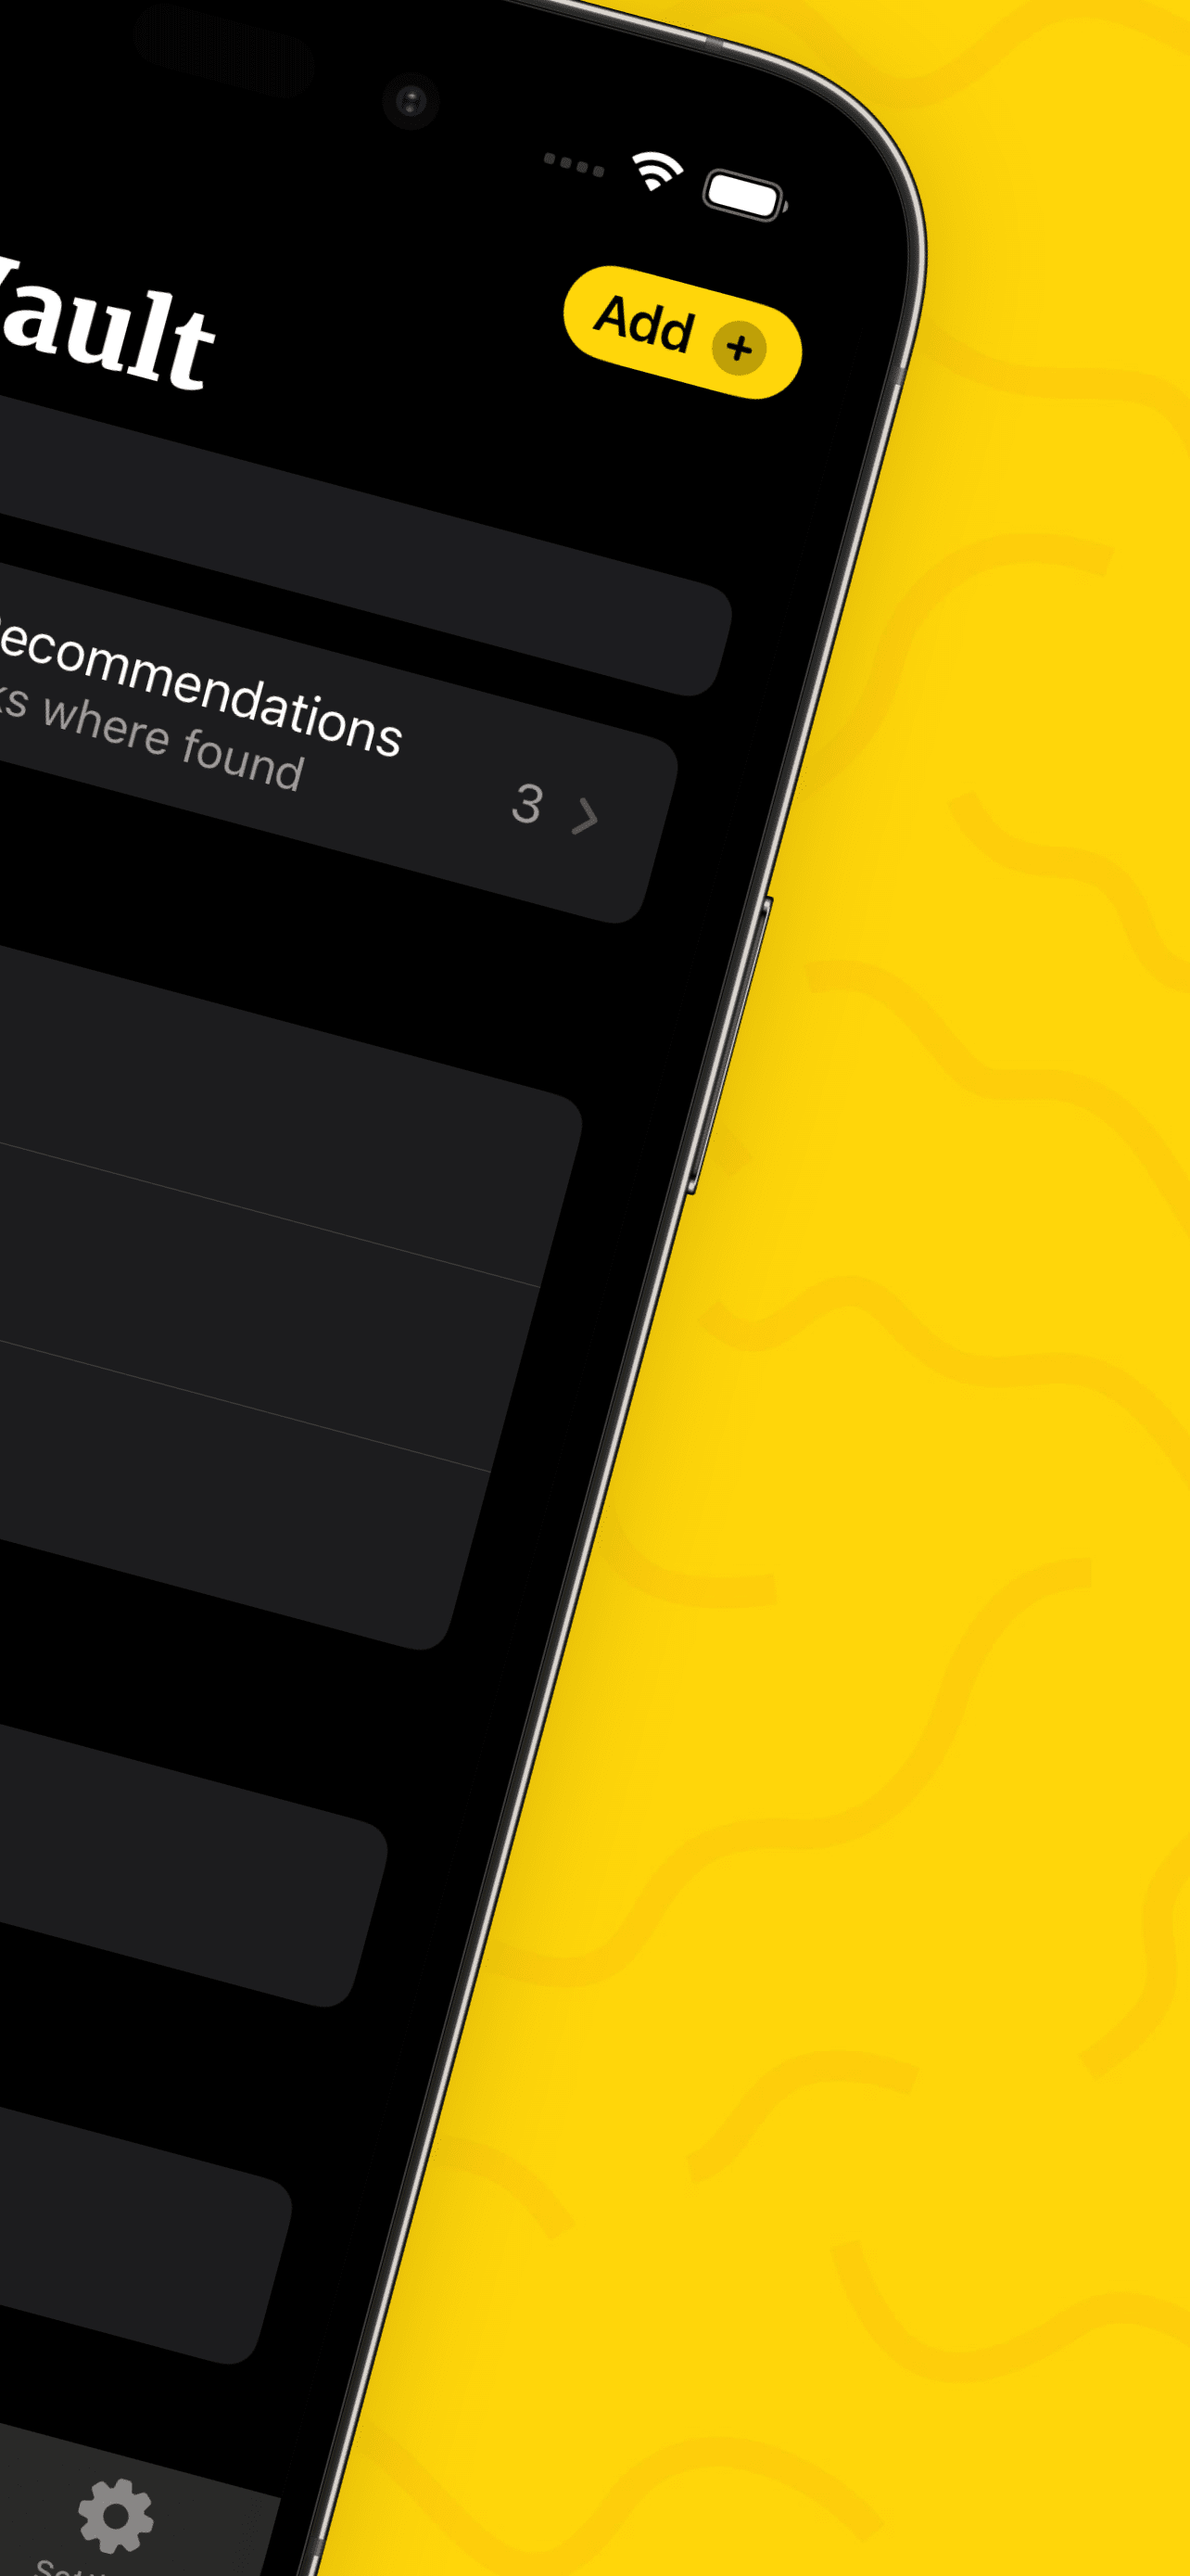
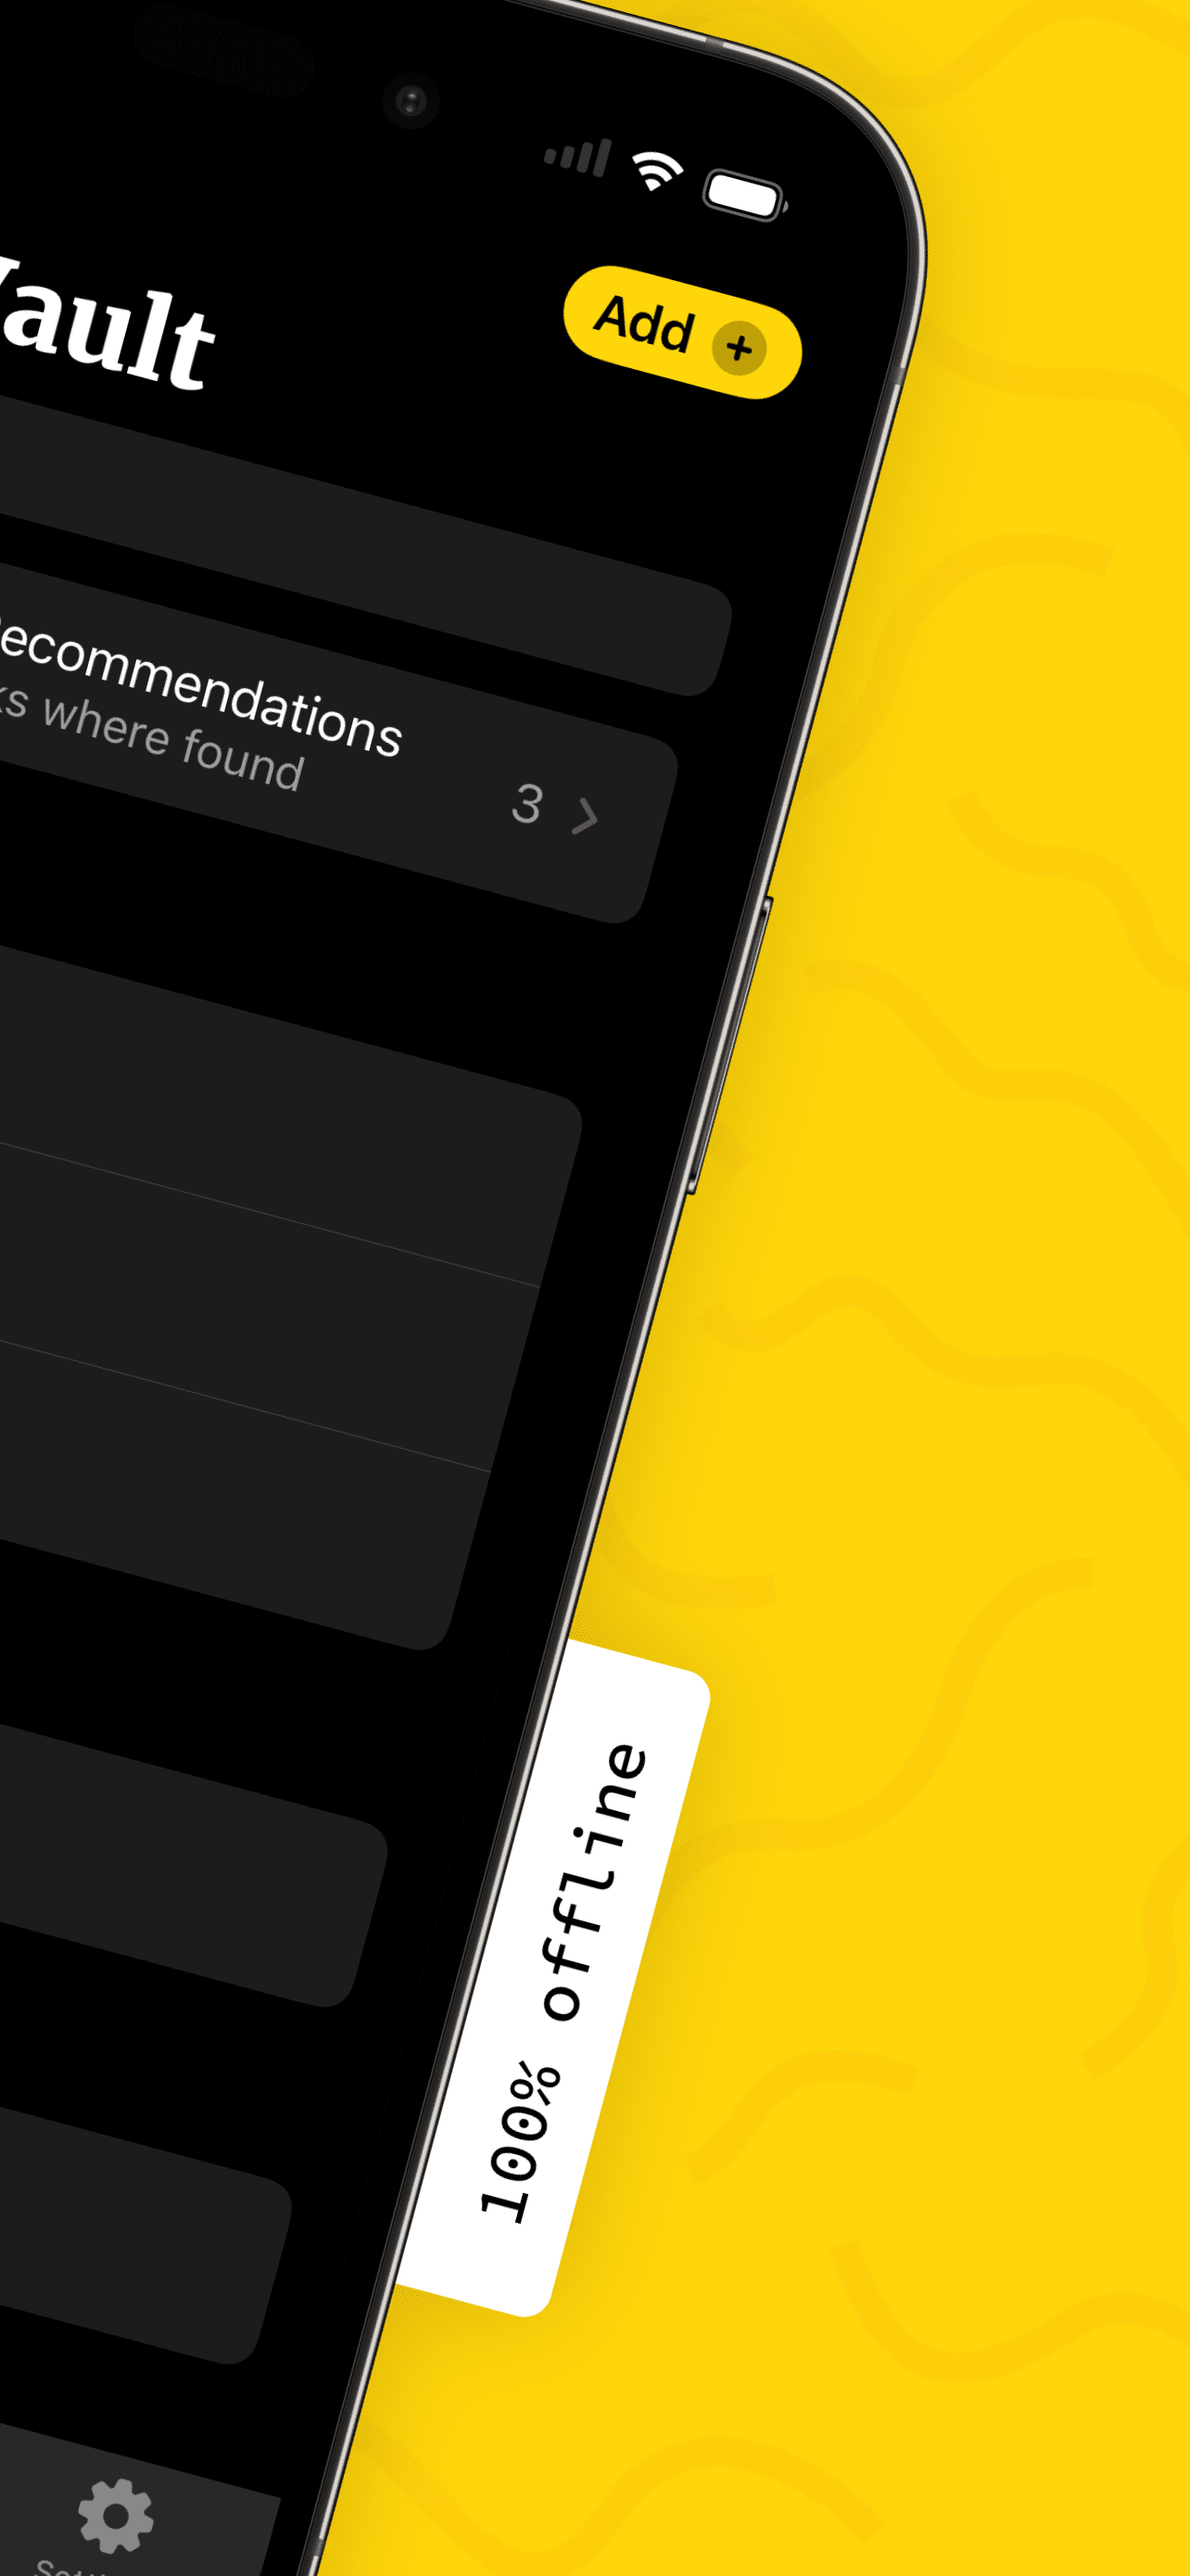
Updated screenshots for the beta.

Changed region(s): [[0.3115, 0.6192, 0.5919, 0.8978], [0.4673, 0.031, 0.4984, 0.0619]]

diff --git a/index.html b/index.html
@@ -128,6 +128,19 @@
                                         <img src="/img/screens/iPhone 14 Plus-07.png" class="" alt="Pocket Pass Manager"
                                             loading="lazy">
                                     </div>
+                                    <div class="col">
+                                        <img src="/img/screens/iPhone 14 Plus-08.png" class="" alt="Pocket Pass Manager"
+                                            loading="lazy">
+                                    </div>
+                                    <div class="col">
+                                        <img src="/img/screens/iPhone 14 Plus-09.png" class="" alt="Pocket Pass Manager"
+                                            loading="lazy">
+                                    </div>
+                                    <div class="col">
+                                        <img src="/img/screens/iPhone 14 Plus-10.png" class="" alt="Pocket Pass Manager"
+                                        loading="lazy">
+                                    </div>
+                                    <!-- Cols up to 10 -->
                                 </div>
                             </div>
                         </div>
